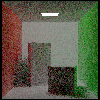
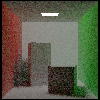
Add files via upload

diff --git a/main_quadrics.py b/main_quadrics.py
@@ -11,7 +11,7 @@ boundings_light, area_light = read_light_obj(name = 'light',path = 'objs/luzcorn
 #1.0 1.0 1.0 0.3 0.7 0 0 5
 boundings1, objs1 = read_obj(name = 'cube1', path = 'objs/cube1.obj',r=1,g=1,b=1,ka=0.3,kd=0.7,ks=0,kt=0,n = 5,reflection = 0.5)
 #1.0 1.0 1.0 0.3 0.7 0 0 5
-boundings2, objs2 = read_obj(name = 'cube2', path = 'objs/cube2.obj',r=1,g=1,b=1,ka=0.3,kd=0.7,ks=0,kt=0.5,n = 5,reflection = 0.5)
+boundings2, objs2 = read_obj(name = 'cube2', path = 'objs/cube2.obj',r=1,g=1,b=1,ka=0.3,kd=0.7,ks=0,kt=0,n = 5,reflection = 0.5)
 #1.0 1.0 1.0 0.3 0.7 0 0 5
 boundings3, objs3 = read_obj(name = 'floor',path = 'objs/floor.obj',r=1,g=1,b=1,ka=0.3,kd=0.7,ks=0,kt=0,n = 5, reflection = 0)
 #1.0 1.0 1.0 0.3 0.7 0 0 5
@@ -52,15 +52,74 @@ quadric2 = [{"a":1,"b":1,"c":1,"d":0,"e":0,"f":0,"g":-2,"h":2,"j":25,"k":632,
   'ks':0,
   'kt':0}]
 
+quadric3 = [{"a":1,"b":1,"c":1,"d":0,"e":0,"f":0,"g":1,"h":0,"j":22,"k":481,
+  'ambient': np.array([0.3, 0.3, 0.3]),
+  'diffuse': np.array([0.7, 0.7, 0.7]),
+  'name': 'quadric3',
+  'reflection': 0.5,
+  'shininess': 20,
+  'specular': np.array([0, 0, 0]),
+  'transparency': np.array([0, 0, 0]),
+  'ka':0.3,
+  'kd':0.7,
+  'ks':0,
+  'kt':0}]
+
+quadric4 = [{"a":1/6,"b":1/3,"c":1/3,"d":0,"e":0,"f":0,"g":0,"h":0,"j":27/3,"k":242,
+  'ambient': np.array([0.3, 0.3, 0]),
+  'diffuse': np.array([0.7, 0.7, 0]),
+  'name': 'quadric4',
+  'reflection': 0.5,
+  'shininess': 20,
+  'specular': np.array([0, 0, 0]),
+  'transparency': np.array([0, 0, 0]),
+  'ka':0.3,
+  'kd':0.7,
+  'ks':0,
+  'kt':0}]
+
+quadric5 = [{"a":1/2,"b":1/2,"c":0,"d":0,"e":0,"f":0,"g":-1,"h":1/2,"j":1/12,"k":5.17,
+  'ambient': np.array([0.3, 0.3, 0.3]),
+  'diffuse': np.array([0.7, 0.7, 0.7]),
+  'name': 'quadric5',
+  'reflection': 0.5,
+  'shininess': 20,
+  'specular': np.array([0, 0, 0]),
+  'transparency': np.array([0, 0, 0]),
+  'ka':0.3,
+  'kd':0.7,
+  'ks':0,
+  'kt':0}]
+
 x_min, y_min, z_min = -3, -3, -29
 x_max, y_max, z_max = -1, -1, -27
 
 boundings_quadric1 = {'name': quadric1[0]['name'], 'min':np.array([x_min,y_min,z_min]), 'max':np.array([x_max,y_max,z_max])}
 
+x_min, y_min, z_min = -2, -3, -29
+x_max, y_max, z_max = -1, -1, -27
+
+boundings_quadric1_half = {'name': quadric1[0]['name'], 'min':np.array([x_min,y_min,z_min]), 'max':np.array([x_max,y_max,z_max])}
+
 x_min, y_min, z_min = 1, -3, -26
 x_max, y_max, z_max = 3, -1, -24
 
 boundings_quadric2 = {'name': quadric2[0]['name'], 'min':np.array([x_min,y_min,z_min]), 'max':np.array([x_max,y_max,z_max])}
+
+x_min, y_min, z_min = -3, -2, -24
+x_max, y_max, z_max = 1, 2, -20
+
+boundings_quadric3 = {'name': quadric3[0]['name'], 'min':np.array([x_min,y_min,z_min]), 'max':np.array([x_max,y_max,z_max])}
+
+x_min, y_min, z_min = -np.sqrt(6), -np.sqrt(3), -27-np.sqrt(3)
+x_max, y_max, z_max = np.sqrt(6), np.sqrt(3), -27+np.sqrt(3)
+
+boundings_quadric4 = {'name': quadric4[0]['name'], 'min':np.array([x_min,y_min,z_min]), 'max':np.array([x_max,y_max,z_max])}
+
+x_min, y_min, z_min = 2-np.sqrt(7), -1-np.sqrt(4), -33
+x_max, y_max, z_max = 2+np.sqrt(3), -1+np.sqrt(4), -18
+
+boundings_quadric5 = {'name': quadric5[0]['name'], 'min':np.array([x_min,y_min,z_min]), 'max':np.array([x_max,y_max,z_max])}
 
 ##
 quadrics = quadric1 + quadric2
@@ -85,7 +144,7 @@ for i, y in enumerate(np.linspace(screen[1], screen[3], height)):
     
     color = np.zeros((3))
 
-    samples = 5
+    samples = 10
 
     for k in range(samples):
       pixel = np.array([x, y, 0])

diff --git a/path_tracing.py b/path_tracing.py
@@ -5,7 +5,7 @@ from geometry import names_intersected, nearest_intersected, light_position, nor
 def trace(camera, origin, direction, objs, objs_wo_light, all_boundings, area_light, max_depth):
 
   color = np.zeros((3))
-  reflection = 1
+  attenuation = 1
 
   for k in range(max_depth):
 
@@ -76,7 +76,6 @@ def trace(camera, origin, direction, objs, objs_wo_light, all_boundings, area_li
       direction = reflected(direction, normal)
 
     if ray == 'transmission':
-      #n12 = n1/n2
       n12 = 0.67 
       U1 = (n12*(np.dot(normal,direction)) - np.sqrt(1-np.dot((n12**2),1-(np.dot(normal,direction))**2)))
       direction = np.dot(U1,normal) - n12*direction
@@ -85,7 +84,7 @@ def trace(camera, origin, direction, objs, objs_wo_light, all_boundings, area_li
     origin = shifted_point
     ### 
 
-    if is_shadowed:
+    if is_shadowed or nearest_object["kt"] > 0:
       continue
 
     if k == 0:
@@ -94,10 +93,8 @@ def trace(camera, origin, direction, objs, objs_wo_light, all_boundings, area_li
 
       # ambiant
       illumination += nearest_object['ambient'] * area_light[0][0]['ambient']
-
       # diffuse
       illumination += nearest_object['diffuse'] * area_light[0][0]['diffuse'] * np.dot(intersection_to_light, normal)
-
       # specular
       intersection_to_camera = normalize(camera - intersection)
       H = normalize(intersection_to_light + intersection_to_camera)
@@ -106,21 +103,17 @@ def trace(camera, origin, direction, objs, objs_wo_light, all_boundings, area_li
     else:
       # RGB
       illumination = np.zeros((3))
-
       # ambiant
       illumination += nearest_object['ambient'] * area_light[0][0]['ambient']
-
       # diffuse
       illumination += nearest_object['diffuse'] * area_light[0][0]['diffuse'] * np.dot(intersection_to_light, normal)
-
       # specular
       intersection_to_camera = normalize(camera - intersection)
       H = normalize(intersection_to_light + intersection_to_camera)
       illumination += nearest_object['specular'] * area_light[0][0]['specular'] * np.dot(normal, H) ** (nearest_object['shininess'] / 4)
 
-    # reflection
-    color += reflection * illumination
-    reflection *= nearest_object['kd']
-    #reflection *= color*nearest_object['kd']
+    ##
+    color += attenuation * illumination
+    attenuation *= 0.7
 
   return color

diff --git a/main.py b/main.py
@@ -28,7 +28,7 @@ boundings_light, area_light = read_light_obj(name = 'light',path = 'objs/luzcorn
 #1.0 1.0 1.0 0.3 0.7 0 0 5
 boundings1, objs1 = read_obj(name = 'cube1', path = 'objs/cube1.obj',r=1,g=1,b=1,ka=0.3,kd=0.7,ks=0,kt=0,n = 5,reflection = 0.5)
 #1.0 1.0 1.0 0.3 0.7 0 0 5
-boundings2, objs2 = read_obj(name = 'cube2', path = 'objs/cube2.obj',r=1,g=1,b=1,ka=0.3,kd=0.7,ks=0,kt=0.5,n = 5,reflection = 0.5)
+boundings2, objs2 = read_obj(name = 'cube2', path = 'objs/cube2.obj',r=1,g=1,b=1,ka=0.3,kd=0.7,ks=0,kt=0,n = 5,reflection = 0.5)
 #1.0 1.0 1.0 0.3 0.7 0 0 5
 boundings3, objs3 = read_obj(name = 'floor',path = 'objs/floor.obj',r=1,g=1,b=1,ka=0.3,kd=0.7,ks=0,kt=0,n = 5, reflection = 0)
 #1.0 1.0 1.0 0.3 0.7 0 0 5
@@ -61,22 +61,17 @@ for i, y in enumerate(np.linspace(screen[1], screen[3], height)):
     
     color = np.zeros((3))
 
-    samples = 5
+    samples = 10
 
     for k in range(samples):
       pixel = np.array([x, y, 0])
       origin = camera
       direction = normalize(pixel - origin)
 
-      color += trace(camera, origin, direction, objs, objs_wo_light, all_boundings, area_light, max_depth = 4)
-
-    #image[i, j] = np.clip(color/samples, 0, 1)
+      color += trace(camera, origin, direction, objs, objs_wo_light, all_boundings, area_light, max_depth = 6)
     
     color = color/samples
     image[i, j] = color/(color+1)
-
-    #color = np.clip(color/samples, 0, 1)
-    #image[i, j] = color/(color+1)
 
     cnt+=1
 

diff --git a/quadrics.py b/quadrics.py
@@ -88,7 +88,7 @@ def nearest_quadric(origin, direction, quadrics, names_quadrics):
 def trace_quadric(camera, origin, direction, objs, objs_wo_light, area_light, quadrics, all_boundings, max_depth):
 
   color = np.zeros((3))
-  reflection = 1
+  attenuation = 1
 
   for k in range(max_depth):
 
@@ -194,9 +194,8 @@ def trace_quadric(camera, origin, direction, objs, objs_wo_light, area_light, qu
       H = normalize(intersection_to_light + intersection_to_camera)
       illumination += nearest_object['specular'] * area_light[0][0]['specular'] * np.dot(normal, H) ** (nearest_object['shininess'] / 4)
 
-    # reflection
-    color += reflection * illumination
-    reflection *= nearest_object['kd']
-    #reflection *= color*nearest_object['kd']
+    ##
+    color += attenuation * illumination
+    attenuation *= 0.4
 
   return color

diff --git a/geometry.py b/geometry.py
@@ -161,7 +161,7 @@ def read_obj(name,path,r,g,b,ka,kd,ks,kt,n,reflection):
                                          list(object_.vertices[int(i[2])-1])]),
                     'ambient': np.array([r*ka,g*ka,b*ka]),
                     'diffuse': np.array([r*kd,g*kd,b*kd]),
-                    'specular': np.array([r*ks,g*ks,b*ks]),
+                    'specular': np.array([ks,ks,ks]),
                     'transparency': np.array([r*kt,g*kt,b*kt]),
                     'shininess': 4*n,
                     'reflection': reflection,
